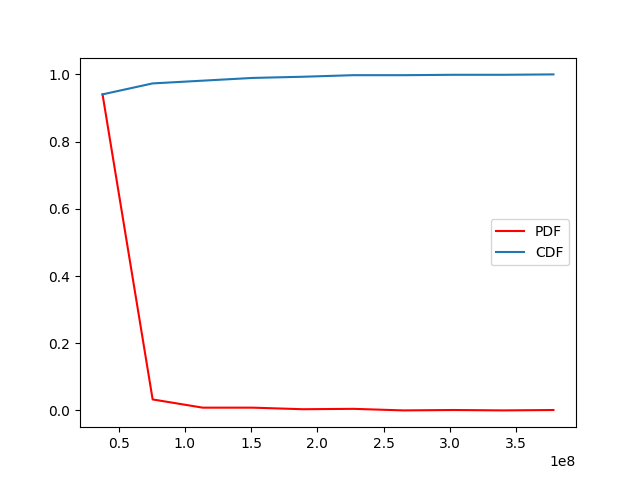
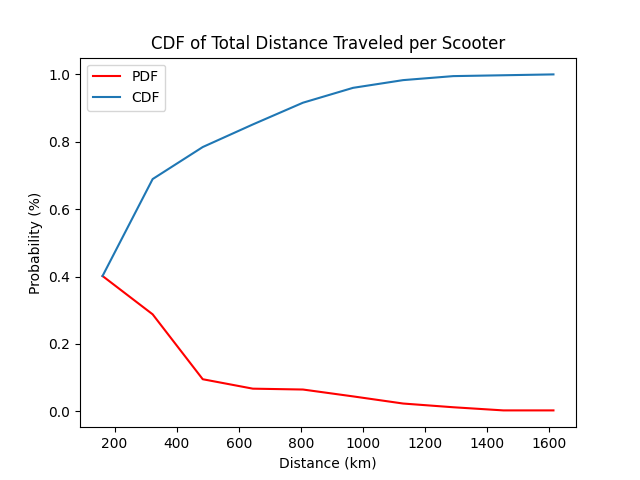
new data

diff --git a/newark_test.py b/newark_test.py
@@ -28,11 +28,12 @@ class Vehicle:
 
 #Encapsulates all info about a specific scooter (device id)
 class Vehicle_Collection:
-    def __init__(self, dev_id, type):
+    def __init__(self, dev_id, type, provider_name):
         self.dev_id = dev_id
         self.type = type
+        self.provider_name = provider_name
         self.trip_list = []
-        self.total_distance = 0 #Will be added onto later
+        self.total_distance = 0 #Will be added onto later, in km (units)
         self.duration_seconds = None #Will be overwritten later
         self.duration_days = None #Will be overwritten later, = duration_seconds/(60*60*24)
         self.usage_times = None #Will be overwritten later
@@ -51,7 +52,7 @@ def collection_list_update(collection_list, veh_object):
             collection.trip_list.append(veh_object)
             break
     else:
-        collection_new = Vehicle_Collection(veh_object.dev_id, veh_object.type)
+        collection_new = Vehicle_Collection(veh_object.dev_id, veh_object.type, veh_object.provider_name)
         collection_new.trip_list.append(veh_object)
         collection_list = np.append(collection_list, collection_new)
     return collection_list
@@ -69,6 +70,8 @@ def parse_csv(filename, collection_list):
         csvreader = csv.reader(csvfile)
         next(csvreader)
         for row in csvreader:
+            if len(row) == 0:
+                continue
             veh = row_to_obj(row)
             collection_list = collection_list_update(collection_list, veh) 
     return collection_list
@@ -106,11 +109,15 @@ def usage_times(collection_list):
     print("Usage time is finished.")
     return collection_list
 
+#Data is in meters, convert to km
 def distance_traveled(collection_list):
     for collection in collection_list:
         trip_list = collection.trip_list
         for trip in trip_list:
-            collection.total_distance += trip.distance
+            if (trip.distance/1000) > 20: #Threshold of 20km to remove outliers, can try higher thresholds
+                collection.total_distance += 0
+                continue
+            collection.total_distance += (trip.distance/1000)
     print("Distance traveled is finished.")
     return collection_list
 
@@ -151,7 +158,7 @@ def organize_data(collection_list):
 
 #Helper method for plotting cdf. input_data is a list of data (should be numeric). 
 #output_name is a string to identify the figure. Do not include "_cdf.png" in the output_name string.
-def plot_cdf(input_data, output_name):
+def plot_cdf(input_data, output_name, title_str, x_label):
     if len(input_data) == 0:
         return
     count, bins_count = np.histogram(input_data, bins=10)
@@ -160,6 +167,9 @@ def plot_cdf(input_data, output_name):
     plt.plot(bins_count[1:], pdf, color="red", label="PDF")
     plt.plot(bins_count[1:], cdf, label="CDF")
     plt.legend()
+    plt.title(title_str)
+    plt.xlabel(x_label)
+    plt.ylabel("Probability (%)")
     plt.savefig(output_name + "_cdf.png")
     plt.clf()
 
@@ -176,7 +186,7 @@ def cdf_usage_times(collection_list):
             usage_other.append(collection.usage_times)
     #Only scooter data atm
     #plot_cdf(usage_both, "usage_both")
-    plot_cdf(usage_scooter, "usage_scooter")
+    plot_cdf(usage_scooter, "usage_scooter", "CDF of # of Trips per Scooter", "# of Trips")
     #plot_cdf(usage_other, "usage_other")
 
 
@@ -191,10 +201,10 @@ def cdf_distance_traveled(collection_list):
         else:
             distance_other.append(collection.total_distance)
     #plot_cdf(distance_both, "distance_both")
-    plot_cdf(distance_scooter, "distance_scooter")
+    plot_cdf(distance_scooter, "distance_scooter", "CDF of Total Distance Traveled per Scooter", "Distance (km)")
     #plot_cdf(distance_other, "distance_other")
 
-#Plots the cdf of working time in terms of slots (1 slot == 15 minutes)
+#Plots the cdf of working time in terms of days
 def cdf_working_time(collection_list):
     working_both = []
     working_scooter = []
@@ -206,7 +216,7 @@ def cdf_working_time(collection_list):
         else:
             working_other.append(collection.working_time_days)
     #plot_cdf(working_both, "working_both_slots")
-    plot_cdf(working_scooter, "working_scooter_days")
+    plot_cdf(working_scooter, "working_scooter_days", "CDF of Total Active Travel Time per Scooter", "Time (Days)")
     #plot_cdf(working_other, "working_other_slots")
 
 #Plots the cdf of lifetime of vehicle (both working and idle days) in days
@@ -221,7 +231,7 @@ def cdf_duration_days(collection_list):
         else:
             duration_other.append(collection.duration_days)
     #plot_cdf(duration_both, "duration_both_days")
-    plot_cdf(duration_scooter, "duration_scooter_days")
+    plot_cdf(duration_scooter, "duration_scooter_days", "CDF of Total Lifetime per Scooter", "Time (Days)")
     #plot_cdf(duration_other, "duration_other_days")
 
 #Plots the cdf of utilization as a percent (0.5 -> 50% utilization)
@@ -236,12 +246,12 @@ def cdf_utilization(collection_list):
         else:
             utilization_other.append(collection.utilization)
     #plot_cdf(utilization_both, "utilization_both")
-    plot_cdf(utilization_scooter, "utilization_scooter")
+    plot_cdf(utilization_scooter, "utilization_scooter", "CDF of Utilization of Scooter (Travel Time / Lifetime)", "Percent (0.5 = 50%)")
     #plot_cdf(utilization_other, "utilization_other")
 
 #Plots all of the cdfs we want. Only use after organize_data()
 def graph_functions(collection_list):
-    gps_parse(collection_list)
+    #gps_parse(collection_list)
 
 
     cdf_usage_times(collection_list)
@@ -250,11 +260,37 @@ def graph_functions(collection_list):
     cdf_duration_days(collection_list)
     cdf_utilization(collection_list)
 
+def statistics(collection_list):
+    print("Number of vehicles: ", len(collection_list))
+
+    types = []
+    for collection in collection_list:
+        if collection.type not in types:
+            types.append(collection.type)
+    print("Types of vehicles: ", *types)
+
+    provs = []
+    for collection in collection_list:
+        if collection.provider_name not in provs:
+            provs.append(collection.provider_name)
+    print("Providers of escooters: ", *provs)
+
+    total_dis = 0
+    for collection in collection_list:
+        total_dis += collection.total_distance
+    print("Total Distance: ", total_dis)
+
+    trip_ct = 0
+    for collection in collection_list:
+        trip_ct += len(collection.trip_list)
+    print("Total Trip Count: ", trip_ct)
+
 #Only function to be called in Main method. Performs all parsing, organizing, and analyzing.
 def launch_script():
     collection_list = parse_all_files()
     collection_list = organize_data(collection_list)
     graph_functions(collection_list)
+    statistics(collection_list)
     print("Script is finished.")
 
 def gps_parse(collection_list):
@@ -282,10 +318,6 @@ def helper_gps_parse(gps_str):
 def heatmap(collection_list):
     columns = ["latitude", "longitude"]
     a = []
-
-
-
-
 
 
 #Main Method
